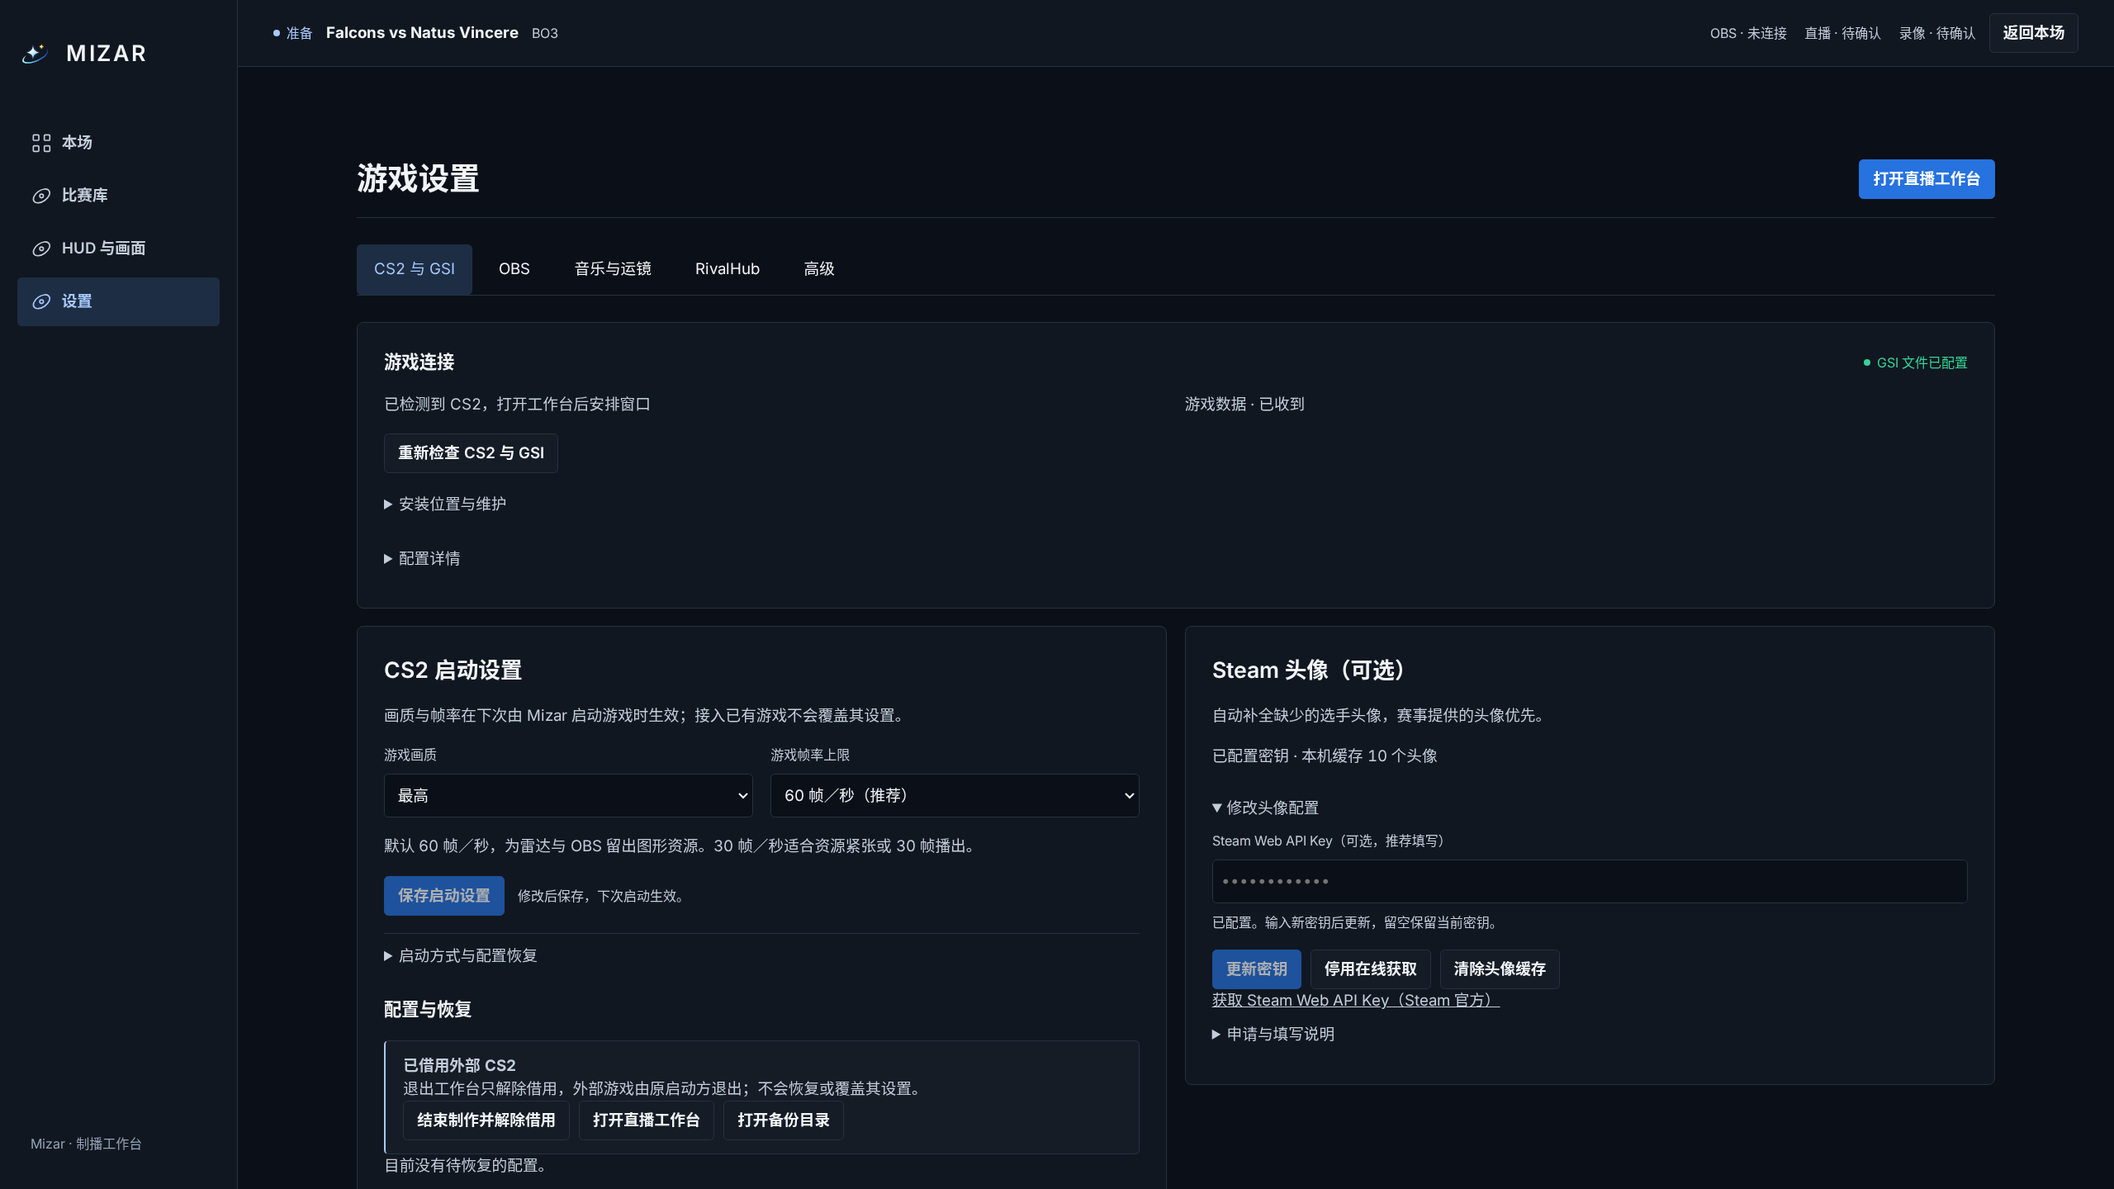
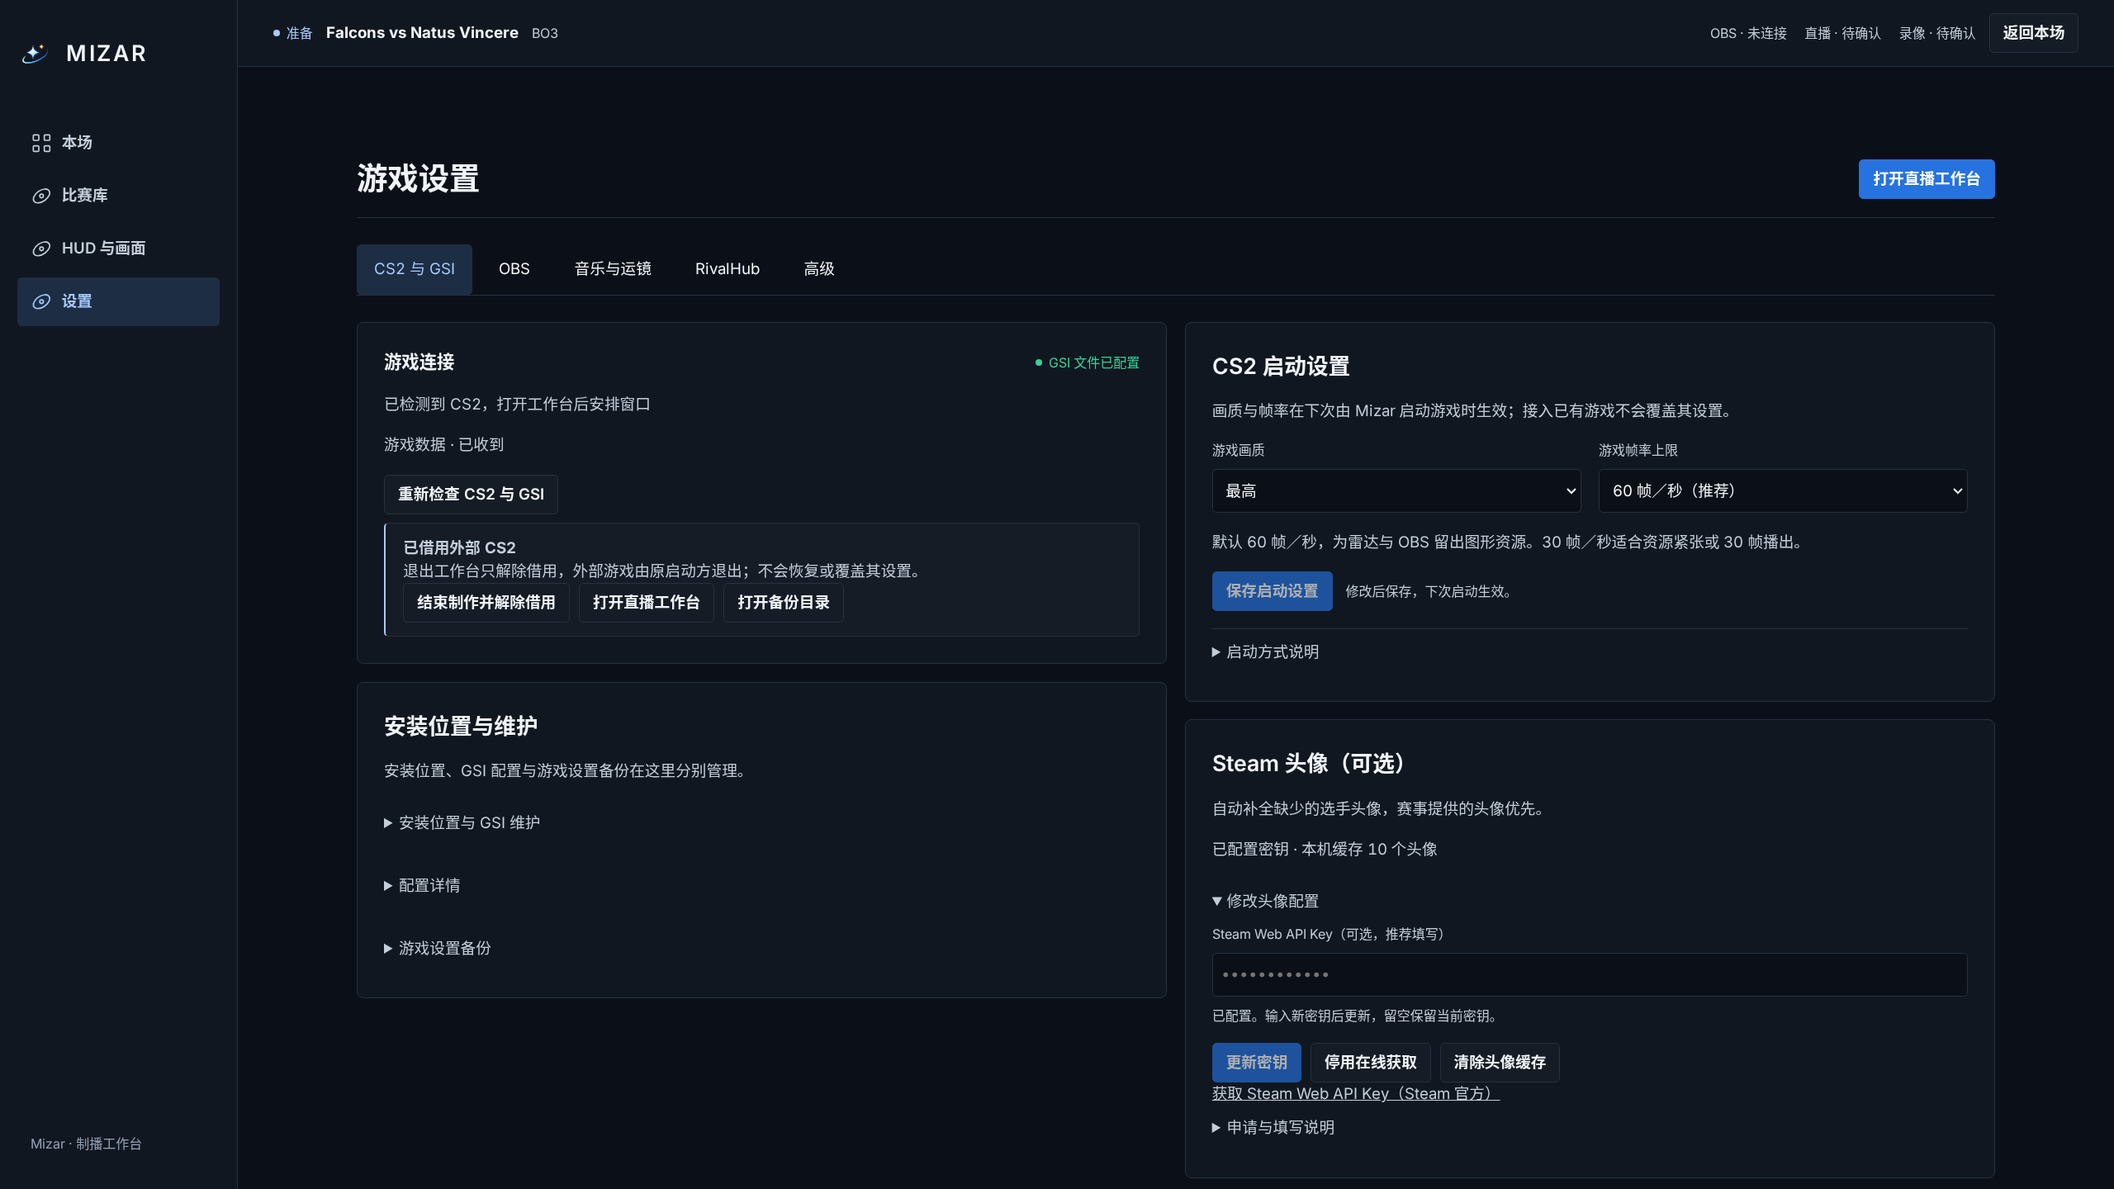
refactor(settings): separate game recovery from launch preferences

diff --git a/apps/web/src/preparation/Settings.tsx b/apps/web/src/preparation/Settings.tsx
@@ -9,6 +9,8 @@ import { desktopInvoke } from '../workspace/client';
 import { beginObsConfiguration, obsCommand, useObsStatus } from '../workspace/obs-client';
 import { RivalHubPreparationPanel } from '../operator/RivalHubPreparationPanel';
 import { openTool, useLocalRead } from './client';
+import { Cs2Recovery } from './Cs2Recovery';
+import type { Production } from './client';
 import { Cs2LaunchSettings } from './Cs2LaunchSettings';
 import { SteamAvatarSettings } from './SteamAvatarSettings';
 import { UpdateSettings } from './UpdateSettings';
@@ -30,6 +32,9 @@ function statusReadReason(error: unknown) {
 export function Settings({ tab }: { tab: string }) {
   const [automationTab, setAutomationTab] = useState<'music' | 'camera'>(() =>
     new URLSearchParams(window.location.search).get('section') === 'camera' ? 'camera' : 'music',
+  );
+  const production = useLocalRead<Production>(
+    window.__TAURI_INTERNALS__ ? '/local/v1/production' : null,
   );
   const readiness =
     useLocalRead<{ label: string; ready: boolean; reason: string }[]>('/local/v1/readiness');
@@ -658,103 +663,114 @@ export function Settings({ tab }: { tab: string }) {
           </details>
         </div>
       ) : (
-        <div className="settings-grid">
-          <Panel className="settings-card settings-card--wide game-settings-connection">
-            <div className="preparation-check-heading">
-              <h2>游戏连接</h2>
-              <StatusPill
-                tone={
-                  gsiPhase === 'failed' || gsi?.readFailed || gsi?.conflict
-                    ? 'warning'
-                    : gsiPhase === 'ready' && gsi?.installed
-                      ? 'success'
-                      : 'info'
-                }
-              >
-                {gsiPhase === 'unknown'
-                  ? '尚未检测 GSI'
-                  : gsiPhase === 'checking'
-                    ? '正在检测 GSI'
-                    : gsiPhase === 'failed' || gsi?.readFailed
-                      ? '无法检查 GSI'
-                      : gsi?.conflict
-                        ? '需检查'
-                        : gsi?.installed
-                          ? 'GSI 文件已配置'
-                          : '待安装 GSI'}
-              </StatusPill>
-            </div>
-            <div className="game-settings-signals">
-              <p>
-                {cs2Phase === 'unknown'
-                  ? 'CS2 窗口状态待确认'
-                  : cs2Phase === 'checking'
-                    ? '正在检测 CS2 窗口'
-                    : cs2Phase === 'failed'
-                      ? '无法读取 CS2 窗口状态'
-                      : cs2?.found
-                        ? cs2.managed
-                          ? 'CS2 窗口已就绪'
-                          : '已检测到 CS2，打开工作台后安排窗口'
-                        : '等待 CS2 窗口'}
-              </p>
-              <p role="status">
-                {!gameData
-                  ? '游戏数据 · 状态待确认'
-                  : gameData.ready
-                    ? '游戏数据 · 已收到'
-                    : `游戏数据 · ${gameData.reason}`}
-              </p>
-            </div>
-            {cs2?.message ? <p role="alert">{cs2.message}</p> : null}
-            {gsiError ? (
-              <StatusBanner tone="warning">
-                GSI 读取失败：{gsiError} 点击「重新检查 CS2 与
-                GSI」重查；详细原因见高级设置中的诊断与支持。
-              </StatusBanner>
-            ) : null}
-            {cs2Error ? (
-              <StatusBanner tone="warning">
-                CS2 窗口读取失败：{cs2Error} 点击「重新检查 CS2 与
-                GSI」重查；详细原因见高级设置中的诊断与支持。
-              </StatusBanner>
-            ) : null}
-            {gsi?.issues?.map((issue) => (
-              <StatusBanner key={issue.code} tone={gsi.readFailed ? 'danger' : 'warning'}>
-                {issue.message}
-              </StatusBanner>
-            ))}
-            {gsi?.endpointConflict ? (
-              <>
+        <div className="game-settings-layout">
+          <div className="game-settings-current">
+            <Panel className="settings-card game-settings-connection">
+              <div className="preparation-check-heading">
+                <h2>游戏连接</h2>
+                <StatusPill
+                  tone={
+                    gsiPhase === 'failed' || gsi?.readFailed || gsi?.conflict
+                      ? 'warning'
+                      : gsiPhase === 'ready' && gsi?.installed
+                        ? 'success'
+                        : 'info'
+                  }
+                >
+                  {gsiPhase === 'unknown'
+                    ? '尚未检测 GSI'
+                    : gsiPhase === 'checking'
+                      ? '正在检测 GSI'
+                      : gsiPhase === 'failed' || gsi?.readFailed
+                        ? '无法检查 GSI'
+                        : gsi?.conflict
+                          ? '需检查'
+                          : gsi?.installed
+                            ? 'GSI 文件已配置'
+                            : '待安装 GSI'}
+                </StatusPill>
+              </div>
+              <div className="game-settings-signals">
                 <p>
-                  点击「一键安装 / 修复 GSI」，自动备份并停用这些重复配置；可通过「恢复原 GSI
-                  配置」撤销。其他接收地址的配置会保留。
+                  {cs2Phase === 'unknown'
+                    ? 'CS2 窗口状态待确认'
+                    : cs2Phase === 'checking'
+                      ? '正在检测 CS2 窗口'
+                      : cs2Phase === 'failed'
+                        ? '无法读取 CS2 窗口状态'
+                        : cs2?.found
+                          ? cs2.managed
+                            ? 'CS2 窗口已就绪'
+                            : '已检测到 CS2，打开工作台后安排窗口'
+                          : '等待 CS2 窗口'}
                 </p>
-              </>
-            ) : null}
-            {!window.__TAURI_INTERNALS__ ? (
-              <p>请在 Mizar 桌面应用中检测并安装 GSI。</p>
-            ) : (
-              <>
-                <div className="preparation-actions">
-                  <Button
-                    variant={
-                      gsiPhase !== 'ready' || gsi?.readFailed || cs2Phase === 'failed'
-                        ? 'primary'
-                        : 'secondary'
-                    }
-                    disabled={busy}
-                    onClick={() => void action(refreshGsi)}
-                  >
-                    重新检查 CS2 与 GSI
-                  </Button>
-                  {!gsi?.installed || gsi?.conflict ? gsiInstallButton : null}
-                </div>
+                <p role="status">
+                  {!gameData
+                    ? '游戏数据 · 状态待确认'
+                    : gameData.ready
+                      ? '游戏数据 · 已收到'
+                      : `游戏数据 · ${gameData.reason}`}
+                </p>
+              </div>
+              {cs2?.message ? <p role="alert">{cs2.message}</p> : null}
+              {gsiError ? (
+                <StatusBanner tone="warning">
+                  GSI 读取失败：{gsiError} 点击「重新检查 CS2 与
+                  GSI」重查；详细原因见高级设置中的诊断与支持。
+                </StatusBanner>
+              ) : null}
+              {cs2Error ? (
+                <StatusBanner tone="warning">
+                  CS2 窗口读取失败：{cs2Error} 点击「重新检查 CS2 与
+                  GSI」重查；详细原因见高级设置中的诊断与支持。
+                </StatusBanner>
+              ) : null}
+              {gsi?.issues?.map((issue) => (
+                <StatusBanner key={issue.code} tone={gsi.readFailed ? 'danger' : 'warning'}>
+                  {issue.message}
+                </StatusBanner>
+              ))}
+              {gsi?.endpointConflict ? (
+                <>
+                  <p>
+                    点击「一键安装 / 修复 GSI」，自动备份并停用这些重复配置；可通过「恢复原 GSI
+                    配置」撤销。其他接收地址的配置会保留。
+                  </p>
+                </>
+              ) : null}
+              {!window.__TAURI_INTERNALS__ ? (
+                <p>请在 Mizar 桌面应用中检测并安装 GSI。</p>
+              ) : (
+                <>
+                  <div className="preparation-actions">
+                    <Button
+                      variant={
+                        gsiPhase !== 'ready' || gsi?.readFailed || cs2Phase === 'failed'
+                          ? 'primary'
+                          : 'secondary'
+                      }
+                      disabled={busy}
+                      onClick={() => void action(refreshGsi)}
+                    >
+                      重新检查 CS2 与 GSI
+                    </Button>
+                    {!gsi?.installed || gsi?.conflict ? gsiInstallButton : null}
+                  </div>
+                </>
+              )}
+              <section aria-label="配置与恢复">
+                <Cs2Recovery production={production} />
+              </section>
+            </Panel>
+            <Panel className="settings-card game-settings-maintenance">
+              <h2>安装位置与维护</h2>
+              <p>安装位置、GSI 配置与游戏设置备份在这里分别管理。</p>
+              {window.__TAURI_INTERNALS__ ? (
                 <details
                   key={String(Boolean(gsi && !gsi.detected))}
                   open={Boolean(gsi && !gsi.detected)}
                 >
-                  <summary>安装位置与维护</summary>
+                  <summary>安装位置与 GSI 维护</summary>
                   <p>更换安装位置前，先恢复当前 GSI 配置。新写入的配置在下次启动 CS2 时加载。</p>
                   <div className="preparation-actions">
                     {gsi?.installed && !gsi.conflict ? gsiInstallButton : null}
@@ -814,34 +830,54 @@ export function Settings({ tab }: { tab: string }) {
                     </Button>
                   </div>
                 </details>
-              </>
-            )}
-            <details>
-              <summary>配置详情{gsi?.endpointConflict ? ' · 重复文件' : ''}</summary>
-              {gsi?.endpointConflict ? (
-                <ul className="settings-conflict-files">
-                  {gsi.conflictFiles.map((path) => (
-                    <li key={path}>
-                      <code>{path}</code>
-                    </li>
-                  ))}
-                </ul>
+              ) : (
+                <p>请在桌面应用中管理安装位置与配置。</p>
+              )}{' '}
+              <details>
+                <summary>配置详情{gsi?.endpointConflict ? ' · 重复文件' : ''}</summary>
+                {gsi?.endpointConflict ? (
+                  <ul className="settings-conflict-files">
+                    {gsi.conflictFiles.map((path) => (
+                      <li key={path}>
+                        <code>{path}</code>
+                      </li>
+                    ))}
+                  </ul>
+                ) : null}
+                <p>
+                  支持选择 CS2 安装根目录、game\bin\win64 文件夹或
+                  cs2.exe。更换安装位置前，请先恢复当前 GSI
+                  配置；受管理游戏退出并恢复设置后才能更换。
+                </p>
+                <p className="settings-conflict-files">
+                  {gsi?.cfgPath ??
+                    (gsiPhase === 'ready' && !gsi?.readFailed
+                      ? '尚未发现配置目录'
+                      : '配置目录待确认')}
+                </p>
+                {gsi ? <p>安装候选数量：{gsi.candidateCount ?? 0}</p> : null}
+              </details>
+              {window.__TAURI_INTERNALS__ ? (
+                <details>
+                  <summary>游戏设置备份</summary>
+                  <p>
+                    游戏设置备份用于恢复 Mizar 启动前的画质、帧率与观战设置，与 GSI
+                    接收配置不同。需要恢复时，上方游戏连接区域会显示处理入口。
+                  </p>
+                  <Button
+                    disabled={busy}
+                    onClick={() => void action(() => desktopInvoke('open_cs2_backup'))}
+                  >
+                    打开游戏设置备份目录
+                  </Button>
+                </details>
               ) : null}
-              <p>
-                支持选择 CS2 安装根目录、game\bin\win64 文件夹或
-                cs2.exe。更换安装位置前，请先恢复当前 GSI 配置；受管理游戏退出并恢复设置后才能更换。
-              </p>
-              <p className="settings-conflict-files">
-                {gsi?.cfgPath ??
-                  (gsiPhase === 'ready' && !gsi?.readFailed
-                    ? '尚未发现配置目录'
-                    : '配置目录待确认')}
-              </p>
-              {gsi ? <p>安装候选数量：{gsi.candidateCount ?? 0}</p> : null}
-            </details>
-          </Panel>
-          <Cs2LaunchSettings />
-          <SteamAvatarSettings />
+            </Panel>
+          </div>
+          <div className="game-settings-preferences">
+            <Cs2LaunchSettings />
+            <SteamAvatarSettings />
+          </div>
         </div>
       )}
       {message ? <StatusBanner tone="info">{message}</StatusBanner> : null}

diff --git a/apps/web/src/preparation/Cs2LaunchSettings.tsx b/apps/web/src/preparation/Cs2LaunchSettings.tsx
@@ -1,14 +1,11 @@
 import { useState } from 'react';
 import { Button, Panel, Select, StatusBanner } from '../ui';
 import { desktopInvoke } from '../workspace/client';
-import { useLocalRead, type Production } from './client';
 
 import { useCs2Status, type Cs2ConfigStatus } from './cs2-status';
-import { Cs2Recovery } from './Cs2Recovery';
 
 export function Cs2LaunchSettings() {
   const desktop = Boolean(window.__TAURI_INTERNALS__);
-  const production = useLocalRead<Production>(desktop ? '/local/v1/production' : null);
   const { status, phase, refresh, error: statusError } = useCs2Status();
   const [busy, setBusy] = useState(false);
   const [error, setError] = useState('');
@@ -125,7 +122,7 @@ export function Cs2LaunchSettings() {
         <p>请在 Mizar 桌面应用中设置并启动 CS2。</p>
       )}
       <details className="settings-details">
-        <summary>启动方式与配置恢复</summary>
+        <summary>启动方式说明</summary>
         <p>无边框窗口 · 分辨率适配工作台</p>
         <p>首次先安装 GSI，并在 OBS 启用 WebSocket 服务器、连接并检查场景。</p>
         <p>
@@ -144,30 +141,6 @@ export function Cs2LaunchSettings() {
         </div>
         <p>退出工作台或退出 Mizar 时关闭本次游戏并恢复原设置；隐藏工作区保留游戏。</p>
       </details>
-      {desktop &&
-      (status?.pending ||
-        status?.spectatorRecoveryPending ||
-        status?.demoCleanupPending ||
-        status?.canPreserve ||
-        status?.message ||
-        status?.borrowed ||
-        phase ||
-        statusError) ? (
-        <section aria-label="配置与恢复">
-          <h3>配置与恢复</h3>
-          <Cs2Recovery production={production} />
-          {status &&
-          !phase &&
-          !statusError &&
-          !status.pending &&
-          !status.spectatorRecoveryPending &&
-          !status.demoCleanupPending &&
-          !status.canPreserve &&
-          !status.message ? (
-            <p>目前没有待恢复的配置。</p>
-          ) : null}
-        </section>
-      ) : null}
       {error || statusError ? (
         <StatusBanner tone="danger">{error || statusError}</StatusBanner>
       ) : null}

diff --git a/apps/web/src/preparation/preparation.css b/apps/web/src/preparation/preparation.css
@@ -1363,7 +1363,22 @@
 }
 .game-settings-signals {
   display: grid;
-  grid-template-columns: repeat(2, minmax(0, 1fr));
+  grid-template-columns: minmax(0, 1fr);
   gap: var(--mizar-layout-padding);
   padding-block: var(--mizar-layout-compact);
+}
+
+.game-settings-layout {
+  display: grid;
+  grid-template-columns: minmax(0, 1fr) minmax(0, 1fr);
+  align-items: start;
+  gap: var(--mizar-layout-padding);
+}
+.game-settings-current,
+.game-settings-preferences {
+  display: grid;
+  gap: var(--mizar-layout-padding);
+}
+.game-settings-connection section:empty {
+  display: none;
 }

diff --git a/docs/guide/quick-start.md b/docs/guide/quick-start.md
@@ -227,4 +227,4 @@ OBS 当前使用 Mizar 场景集合时，准备中心自动恢复可安全修复
 
 「CS2 与 GSI」分别显示配置文件、游戏窗口和实时数据状态。Mizar 自动检查并配置 GSI；未安装或有冲突时显示安装／修复入口，重复文件路径在配置详情中查看。未找到安装位置时展开「安装位置与维护」，其他时候可按需展开以更换路径、恢复原 GSI 或打开配置目录。新配置需在下次启动游戏时加载；已安装不代表已经收到游戏数据。
 
-画质与帧率保存后在下次由 Mizar 启动游戏时生效。正常状态不展开配置恢复区域，有未完成恢复或已借用外部游戏时保留对应操作。Steam 头像默认显示配置与缓存摘要，点击「配置 Steam 头像」或「修改头像配置」再编辑。顶部「打开直播工作台」沿用原有启动前检查和游戏接入流程。
+画质与帧率保存后在下次由 Mizar 启动游戏时生效。当前游戏的状态与恢复操作位于左侧「游戏连接」，有未完成恢复或已借用外部游戏时显示对应操作，正常时不显示空恢复区域。左侧「安装位置与维护」区分 GSI 配置和游戏设置备份；右侧「CS2 启动设置」仅管理下次启动偏好，与恢复流程解耦。Steam 头像默认显示配置与缓存摘要，点击「配置 Steam 头像」或「修改头像配置」再编辑。顶部「打开直播工作台」沿用原有启动前检查和游戏接入流程。
